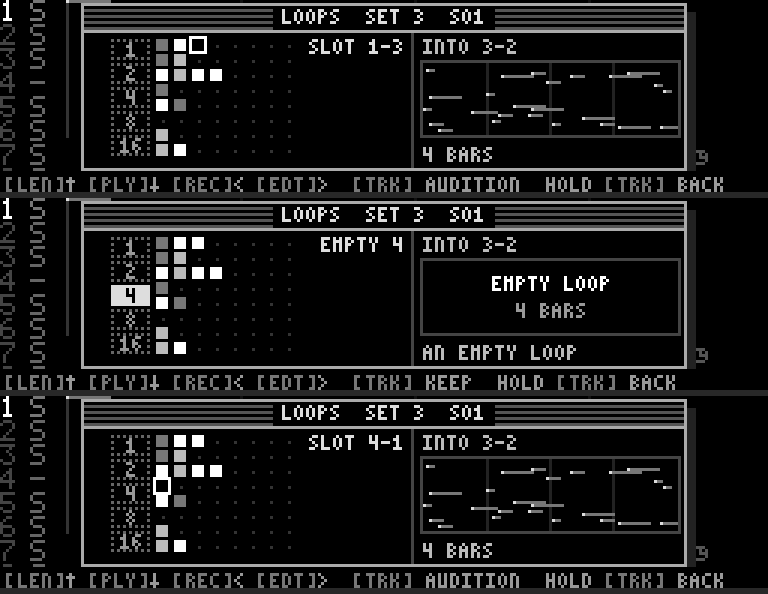
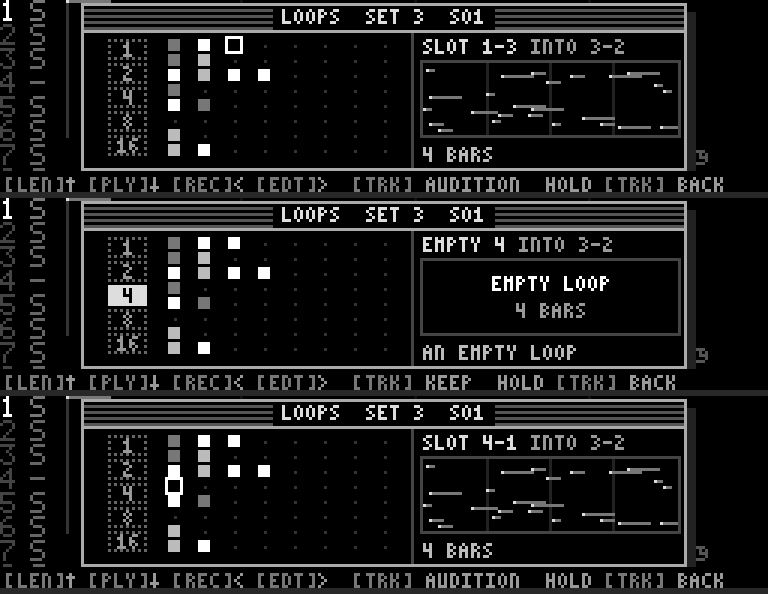
docs(plan): get a loop — layout B: SLOT 1-3 INTO 3-2 in the panel line, slots spread, presets evenly spaced

diff --git a/docs/Plans/engine_sets_browser_proposal.md b/docs/Plans/engine_sets_browser_proposal.md
@@ -161,14 +161,14 @@ half:
   LOOP_EDIT, and while a library job or a load runs.
 * **The grid** is the stage's mosaic: tracks as rows, slots as columns. Moves (owner 2026-11-10): NOTELEN up,
   PLAY/STOP down, REC left, EDIT right — footer `[LEN]↑ [PLY]↓ [REC]< [EDT]>` (on this screen PLAY/STOP is a move; the footer names the moves, and the global transport button stays
-  the transport; a press of it stops everything and cancels the audition). Layout A (owner 2026-11-10, of three
+  the transport; a press of it stops everything and cancels the audition). Layout B (owner 2026-11-10, of three
   mocked): slots are 4 × 4 px squares as the panel mosaic draws them (levels for content, a dim dot for an empty one)
-  at a 6 px pitch across and 5 px down — 8 tracks fill the window's height — the cursor a hollow bright box; the
-  cursor's slot reads `SLOT 1-3` against the divider, so it reads on into the panel's `INTO 3-2`; the title names the
-  source stage (`LOOPS  SET 3  S01`). Left of slot 1, at the slots' own gap, a column of **empty-loop presets** — 1, 2,
-  4, 8 and 16 bars, dotted boxes unlike a loop (owner: a quick empty loop, and the first choice to reach: left of the
-  slots, not past slot 8). LEFT from a track's slot 1 goes to the nearest preset, RIGHT from a preset back to the
-  nearest track; the label reads `EMPTY 4`. A preset needs no audition: `[TRK] KEEP` at once (one undo step). The
+  at a 10 px pitch across and 5 px down — 8 tracks fill the window's height, the slots spread over the left half — the
+  cursor a hollow bright box. The panel's top line names both: `SLOT 1-3 INTO 3-2` (`EMPTY 4 INTO 3-2` on a preset).
+  The title names the source stage (`LOOPS  SET 3  S01`). Left of slot 1 a column of **empty-loop presets** — 1, 2, 4,
+  8 and 16 bars, dotted boxes unlike a loop — with even space on both sides (7 px to the window's edge, 7 px to the
+  slots; owner: a quick empty loop, and the first choice to reach: left of the slots, not past slot 8). LEFT from a
+  track's slot 1 goes to the nearest preset, RIGHT from a preset back to the nearest track. A preset needs no audition: `[TRK] KEEP` at once (one undo step). The
   cursor starts on the 4-bar preset only when the destination is empty; otherwise on the grid cell of the destination's
   own track and slot, and an empty loop kept over a filled destination asks once more (`REPLACE 3-2 WITH AN EMPTY
   8-BAR LOOP?`, centred), so two reflex presses never wipe a loop.
@@ -207,7 +207,7 @@ reading, audition, preview only, `EMPTY LOOP`, its confirmation, after KEEP.
 
 ![](images/get_loop_picker_mockups.png)
 
-The grid as chosen (layout A, presets against slot 1): a loop selected, the 4-bar preset, track 4's slot 1.
+The grid as chosen (layout B, the presets evenly spaced): a loop selected, the 4-bar preset, track 4's slot 1.
 
 ![](images/get_loop_picker_grid.png)
 
